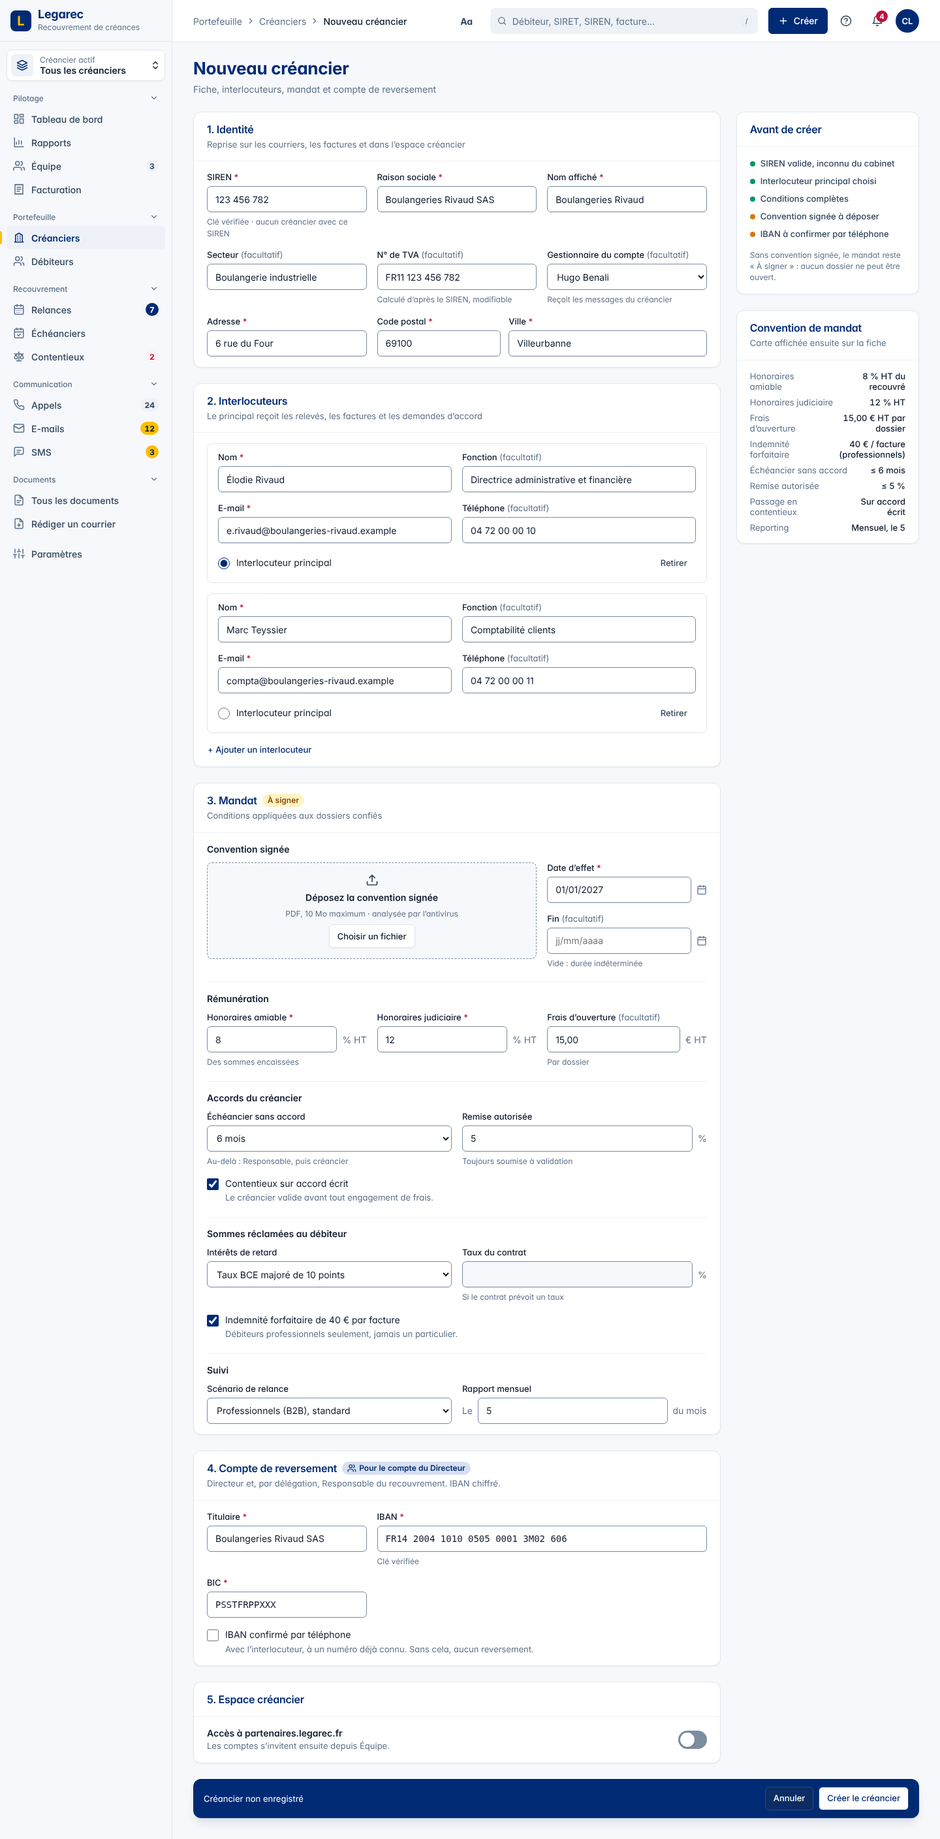
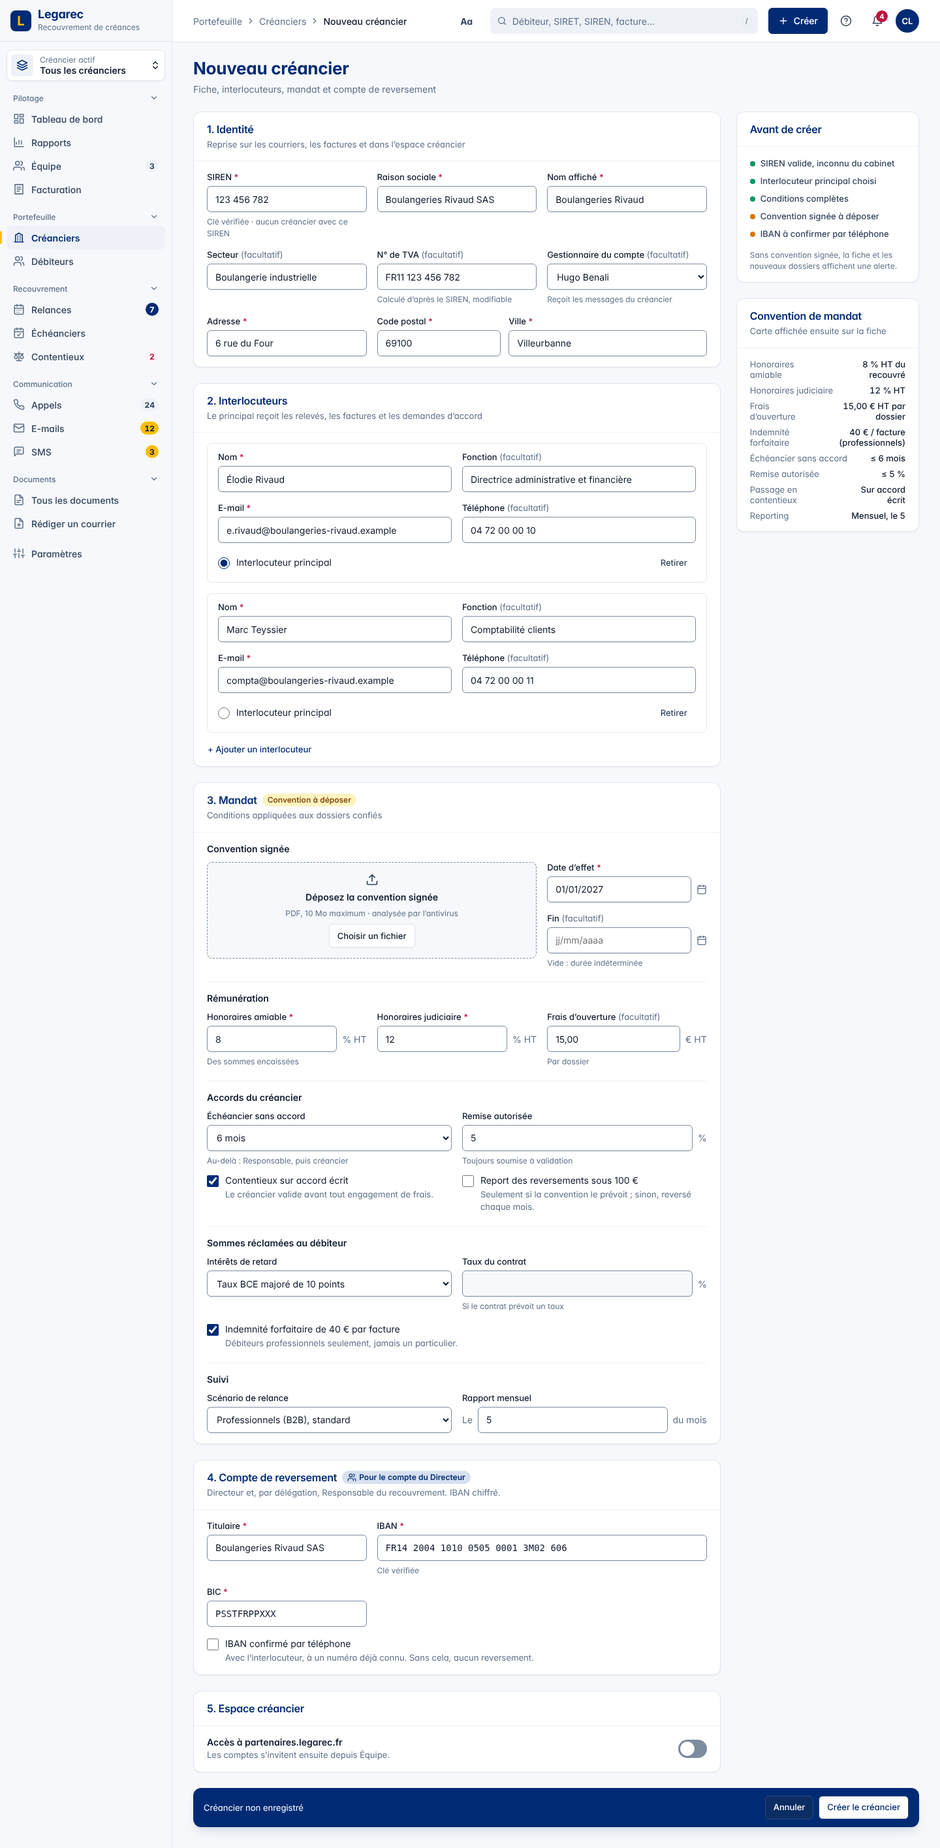
docs: record the firm's answers on the four proposed screens
The four screens are approved. Missing signed agreement becomes a plain
warning, only the Director and the collection manager open a case by hand,
small remittances are deferred only when the agreement says so, and a credit
note can be sent from the collaborator's mailbox.

diff --git a/docs/propositions/debiteur-et-factures.html b/docs/propositions/debiteur-et-factures.html
@@ -64,7 +64,7 @@
       <symbol id="i-x-circle" viewBox="0 0 24 24"><path d="M12 22a10 10 0 1 0 0-20 10 10 0 0 0 0 20zM15 9l-6 6M9 9l6 6"></path></symbol>
     </svg>
     <section class="note" aria-label="Proposition">
-      <p><strong>Proposition 2 sur 4 · Débiteur et factures</strong> · à valider par le cabinet (question 69). Données fictives.</p>
+      <p><strong>Proposition 2 sur 4 · Débiteur et factures</strong> · validée par le cabinet le 25/11/2026 (question 69). Données fictives.</p>
       <nav aria-label="Propositions">
         <a href="#ecran">Écran</a><a href="#etats">États</a><a href="creancier-et-mandat.html">1. Créancier et mandat</a
         ><a href="debiteur-et-factures.html" aria-current="page">2. Débiteur et factures</a
@@ -707,9 +707,9 @@
         </header>
         <div class="states">
           <figure class="state">
-            <figcaption><strong>Qui ouvre un dossier</strong><span>à trancher</span></figcaption>
+            <figcaption><strong>Qui ouvre un dossier</strong></figcaption>
             <div class="carte">
-              <div class="tableau" role="group" tabindex="0" aria-label="Accès à Débiteur et factures" data-min="sm">
+              <div class="tableau" role="group" tabindex="0" aria-label="Accès à Débiteur et factures">
                 <table>
                   <caption class="hidden">
                     Accès à Débiteur et factures
@@ -734,8 +734,8 @@
                     </tr>
                     <tr>
                       <td>Gestionnaire</td>
-                      <td>Ceux de ses dossiers</td>
-                      <td>À lui-même</td>
+                      <td>Non</td>
+                      <td>Reçoit les dossiers attribués</td>
                     </tr>
                     <tr>
                       <td>Développeur</td>
@@ -748,7 +748,7 @@
             </div>
           </figure>
           <figure class="state">
-            <figcaption><strong>Points d’entrée</strong><span>boutons existants</span></figcaption>
+            <figcaption><strong>Points d’entrée</strong><span>masqués pour le Gestionnaire</span></figcaption>
             <section class="carte">
               <div class="body">
                 <ul class="checks">
@@ -943,20 +943,13 @@
                 <strong>Lecture seule</strong
                 ><span
                   >Ce dossier est suivi par Hugo Benali. Vous pouvez le consulter ; votre consultation est notée dans l’historique. L’ajout de factures revient
-                  à son gestionnaire ou au Responsable.</span
+                  au Responsable du recouvrement.</span
                 ><button type="button" class="bouton" data-variant="secondary" data-size="sm"><span>Voir le dossier</span></button>
               </div>
             </div>
           </figure>
           <figure class="state">
-            <figcaption><strong>Dossier existant hors de portée</strong><span>Gestionnaire : message neutre</span></figcaption>
-            <div class="alerte" data-tone="warning" role="note">
-              <svg class="icone" aria-hidden="true" data-size="lg"><use href="#i-alert"></use></svg>
-              <div><strong>Dossier impossible à ouvrir ici</strong><span>Voyez avec le Responsable du recouvrement. Votre saisie reste à l’écran.</span></div>
-            </div>
-          </figure>
-          <figure class="state">
-            <figcaption><strong>Même débiteur, autre créancier</strong><span>Directeur et Responsable seulement</span></figcaption>
+            <figcaption><strong>Même débiteur, autre créancier</strong></figcaption>
             <div class="alerte" data-tone="info" role="note">
               <svg class="icone" aria-hidden="true" data-size="lg"><use href="#i-info"></use></svg>
               <div>
@@ -973,8 +966,17 @@
             <div class="alerte" data-tone="danger" role="note">
               <svg class="icone" aria-hidden="true" data-size="lg"><use href="#i-x-circle"></use></svg>
               <div>
-                <strong>Aucun mandat actif</strong
-                ><span>Le mandat de Boulangeries Rivaud est « À signer ». Déposez la convention signée avant d’ouvrir un dossier.</span
+                <strong>Aucun mandat actif</strong><span>Le mandat de Boulangeries Rivaud prend effet le 01/01/2027. Aucun dossier ne s’ouvre avant.</span
+                ><button type="button" class="bouton" data-variant="secondary" data-size="sm"><span>Voir le créancier</span></button>
+              </div>
+            </div>
+          </figure>
+          <figure class="state">
+            <figcaption><strong>Convention à déposer</strong><span>simple alerte, le dossier s’ouvre</span></figcaption>
+            <div class="alerte" data-tone="warning" role="note">
+              <svg class="icone" aria-hidden="true" data-size="lg"><use href="#i-alert"></use></svg>
+              <div>
+                <strong>Convention signée à déposer</strong><span>Le mandat est actif, mais sa convention signée manque sur la fiche du créancier.</span
                 ><button type="button" class="bouton" data-variant="secondary" data-size="sm"><span>Voir le créancier</span></button>
               </div>
             </div>
@@ -1034,7 +1036,7 @@
             </div>
           </figure>
           <figure class="state">
-            <figcaption><strong>Facture non échue</strong><span>à trancher</span></figcaption>
+            <figcaption><strong>Facture non échue</strong></figcaption>
             <div class="alerte" data-tone="info" role="note">
               <svg class="icone" aria-hidden="true" data-size="lg"><use href="#i-info"></use></svg>
               <div><span>F‑2026‑1190 est due le 10/12/2026 : acceptée et signalée, sans intérêts ni indemnité avant cette date.</span></div>
@@ -1052,13 +1054,14 @@
             </div>
           </figure>
           <figure class="state">
-            <figcaption><strong>Vide</strong><span>gestionnaire sans dossier</span></figcaption>
+            <figcaption><strong>Vide</strong><span>aucun créancier</span></figcaption>
             <div class="carte">
               <div class="etat">
                 <span class="mark" data-kind="empty"
                   ><svg class="icone" aria-hidden="true" data-size="xl"><use href="#i-box"></use></svg></span
-                ><strong>Aucun créancier accessible</strong>
-                <p>Vos créanciers apparaissent dès qu’un dossier vous est attribué.</p>
+                ><strong>Aucun créancier</strong>
+                <p>Ajoutez un créancier pour lui confier des dossiers.</p>
+                <button type="button" class="bouton" data-variant="secondary"><span>+ Nouveau créancier</span></button>
               </div>
             </div>
           </figure>
@@ -1073,7 +1076,7 @@
             </div>
           </figure>
           <figure class="state">
-            <figcaption><strong>Accès refusé</strong><span>Développeur</span></figcaption>
+            <figcaption><strong>Accès refusé</strong><span>Gestionnaire, Développeur</span></figcaption>
             <div class="carte">
               <div class="etat">
                 <span class="mark" data-kind="error"

diff --git a/docs/propositions/creancier-et-mandat.html b/docs/propositions/creancier-et-mandat.html
@@ -64,7 +64,7 @@
       </symbol>
     </svg>
     <section class="note" aria-label="Proposition">
-      <p><strong>Proposition 1 sur 4 · Créancier et mandat</strong> · à valider par le cabinet (question 69). Données fictives.</p>
+      <p><strong>Proposition 1 sur 4 · Créancier et mandat</strong> · validée par le cabinet le 25/11/2026 (question 69). Données fictives.</p>
       <nav aria-label="Propositions">
         <a href="#ecran">Écran</a><a href="#etats">États</a><a href="creancier-et-mandat.html" aria-current="page">1. Créancier et mandat</a
         ><a href="debiteur-et-factures.html">2. Débiteur et factures</a><a href="validation-des-reversements.html">3. Validation des reversements</a
@@ -339,7 +339,7 @@
                   <div>
                     <div class="heading">
                       <h2>3. Mandat</h2>
-                      <span class="badge" data-tone="warning">À signer</span>
+                      <span class="badge" data-tone="warning">Convention à déposer</span>
                     </div>
                     <p>Conditions appliquées aux dossiers confiés</p>
                   </div>
@@ -440,13 +440,17 @@
                         </div>
                         <span class="help" id="f25-h">Toujours soumise à validation</span>
                       </div>
-                      <div data-span="2">
-                        <label class="case"
-                          ><input type="checkbox" checked /><span
-                            ><span>Contentieux sur accord écrit</span><span>Le créancier valide avant tout engagement de frais.</span></span
-                          ></label
-                        >
-                      </div>
+                    </div>
+                    <div class="form">
+                      <label class="case"
+                        ><input type="checkbox" checked /><span
+                          ><span>Contentieux sur accord écrit</span><span>Le créancier valide avant tout engagement de frais.</span></span
+                        ></label
+                      ><label class="case"
+                        ><input type="checkbox" /><span
+                          ><span>Report des reversements sous 100 €</span><span>Seulement si la convention le prévoit ; sinon, reversé chaque mois.</span></span
+                        ></label
+                      >
                     </div>
                   </fieldset>
                   <fieldset class="group">
@@ -583,7 +587,7 @@
                       <li><span class="statut" data-tone="warning">Convention signée à déposer</span></li>
                       <li><span class="statut" data-tone="warning">IBAN à confirmer par téléphone</span></li>
                     </ul>
-                    <p class="hint">Sans convention signée, le mandat reste « À signer » : aucun dossier ne peut être ouvert.</p>
+                    <p class="hint">Sans convention signée, la fiche et les nouveaux dossiers affichent une alerte.</p>
                   </div>
                 </div>
               </section>
@@ -653,7 +657,7 @@
           <figure class="state">
             <figcaption><strong>Qui y accède</strong></figcaption>
             <div class="carte">
-              <div class="tableau" role="group" tabindex="0" aria-label="Accès à Créancier et mandat" data-min="sm">
+              <div class="tableau" role="group" tabindex="0" aria-label="Accès à Créancier et mandat">
                 <table>
                   <caption class="hidden">
                     Accès à Créancier et mandat
@@ -692,14 +696,14 @@
             </div>
           </figure>
           <figure class="state">
-            <figcaption><strong>Points d’entrée</strong><span>boutons existants</span></figcaption>
+            <figcaption><strong>Points d’entrée</strong></figcaption>
             <section class="carte">
               <div class="body">
                 <ul class="checks">
                   <li><span class="statut" data-tone="marine">Créanciers › + Nouveau créancier (N)</span></li>
                   <li><span class="statut" data-tone="marine">Barre du haut › Créer › Créancier</span></li>
                   <li><span class="statut" data-tone="marine">Créancier actif › Ajouter ou gérer les créanciers</span></li>
-                  <li><span class="statut" data-tone="warning">Fiche créancier › Convention de mandat › Modifier (dans la maquette, à remettre)</span></li>
+                  <li><span class="statut" data-tone="marine">Fiche créancier › Convention de mandat › Modifier (bouton de la maquette, remis)</span></li>
                 </ul>
               </div>
             </section>
@@ -714,7 +718,7 @@
                   ></span>
                   <div>
                     <h3>Créer ce créancier ?</h3>
-                    <p>La fiche est créée avec un mandat « À signer ». Aucun dossier ne peut être ouvert avant le dépôt de la convention signée.</p>
+                    <p>Le mandat prend effet à sa date. La convention signée reste à déposer : une alerte le rappelle sur la fiche et les nouveaux dossiers.</p>
                   </div>
                 </div>
                 <dl>
@@ -737,6 +741,10 @@
                   <div>
                     <dt>Échéancier</dt>
                     <dd>Sans accord jusqu’à 6 mois</dd>
+                  </div>
+                  <div>
+                    <dt>Convention</dt>
+                    <dd>À déposer</dd>
                   </div>
                   <div>
                     <dt>Compte</dt>
@@ -1153,6 +1161,16 @@
                 </dl>
               </div>
             </section>
+          </figure>
+          <figure class="state">
+            <figcaption><strong>Convention à déposer</strong><span>simple alerte, sur la fiche et les nouveaux dossiers</span></figcaption>
+            <div class="alerte" data-tone="warning" role="note">
+              <svg class="icone" aria-hidden="true" data-size="lg"><use href="#i-alert"></use></svg>
+              <div>
+                <strong>Convention signée à déposer</strong><span>Le mandat de Boulangeries Rivaud est actif depuis le 01/01/2027 sans convention signée.</span
+                ><button type="button" class="bouton" data-variant="secondary" data-size="sm"><span>Déposer la convention</span></button>
+              </div>
+            </div>
           </figure>
           <figure class="state">
             <figcaption><strong>Modification réversible</strong><span>coordonnées, secteur, gestionnaire du compte</span></figcaption>

diff --git a/docs/propositions/avoir.html b/docs/propositions/avoir.html
@@ -59,7 +59,7 @@
       <symbol id="i-x-circle" viewBox="0 0 24 24"><path d="M12 22a10 10 0 1 0 0-20 10 10 0 0 0 0 20zM15 9l-6 6M9 9l6 6"></path></symbol>
     </svg>
     <section class="note" aria-label="Proposition">
-      <p><strong>Proposition 4 sur 4 · Avoir</strong> · à valider par le cabinet (question 69). Données fictives.</p>
+      <p><strong>Proposition 4 sur 4 · Avoir</strong> · validée par le cabinet le 25/11/2026 (question 69). Données fictives.</p>
       <nav aria-label="Propositions">
         <a href="#ecran">Écran</a><a href="#etats">États</a><a href="creancier-et-mandat.html">1. Créancier et mandat</a
         ><a href="debiteur-et-factures.html">2. Débiteur et factures</a><a href="validation-des-reversements.html">3. Validation des reversements</a
@@ -574,9 +574,9 @@ Chèque revenu impayé après reversement (dossier LGR‑2026‑00188).</textare
               <div class="body">
                 <ul class="checks">
                   <li><span class="statut" data-tone="marine">Facturation › + Créer depuis un modèle › Avoir (type ajouté en dernier)</span></li>
-                  <li><span class="statut" data-tone="warning">Ligne d’une facture émise › Avoir (bouton à ajouter)</span></li>
+                  <li><span class="statut" data-tone="marine">Ligne d’une facture émise › Avoir (nouveau bouton)</span></li>
                   <li><span class="statut" data-tone="marine">Reversements › Préparer l’avoir</span></li>
-                  <li><span class="statut" data-tone="warning">Onglet « Avoirs » ajouté après « Contrats »</span></li>
+                  <li><span class="statut" data-tone="marine">Onglet « Avoirs » après « Contrats » (nouveau)</span></li>
                 </ul>
               </div>
             </section>
@@ -766,7 +766,12 @@ Chèque revenu impayé après reversement (dossier LGR‑2026‑00188).</textare
                       <td data-align="right" data-nowrap><span class="strong">250,56 €</span></td>
                       <td><span class="badge" data-tone="marine">Au reversement du 15/12</span></td>
                       <td>
-                        <button type="button" class="bouton" data-variant="secondary" data-size="sm" aria-label="PDF AV-2026-0002"><span>PDF</span></button>
+                        <span class="inline" data-nowrap
+                          ><button type="button" class="bouton" data-variant="secondary" data-size="sm" aria-label="PDF AV-2026-0002"><span>PDF</span></button
+                          ><button type="button" class="bouton" data-variant="secondary" data-size="sm" aria-label="Envoyer AV-2026-0002 au créancier">
+                            <span>Envoyer</span>
+                          </button></span
+                        >
                       </td>
                     </tr>
                     <tr>
@@ -781,11 +786,54 @@ Chèque revenu impayé après reversement (dossier LGR‑2026‑00188).</textare
                       <td data-align="right" data-nowrap><span class="strong">720,00 €</span></td>
                       <td><span class="badge" data-tone="success">Remboursé</span></td>
                       <td>
-                        <button type="button" class="bouton" data-variant="secondary" data-size="sm" aria-label="PDF AV-2026-0001"><span>PDF</span></button>
+                        <span class="inline" data-nowrap
+                          ><button type="button" class="bouton" data-variant="secondary" data-size="sm" aria-label="PDF AV-2026-0001"><span>PDF</span></button
+                          ><button type="button" class="bouton" data-variant="secondary" data-size="sm" aria-label="Envoyer AV-2026-0001 au créancier">
+                            <span>Envoyer</span>
+                          </button></span
+                        >
                       </td>
                     </tr>
                   </tbody>
                 </table>
+              </div>
+            </div>
+          </figure>
+          <figure class="state">
+            <figcaption><strong>Confirmer l’envoi</strong><span>depuis la boîte du collaborateur</span></figcaption>
+            <div class="veil">
+              <div class="dialog" role="group" aria-label="Envoyer l'avoir AV-2026-0002 au créancier ?">
+                <div class="head">
+                  <span class="mark" data-tone="primary"
+                    ><svg class="icone" aria-hidden="true" data-size="xl"><use href="#i-info"></use></svg
+                  ></span>
+                  <div>
+                    <h3>Envoyer l’avoir AV‑2026‑0002 au créancier ?</h3>
+                    <p>L’avoir est déjà dans l’espace créancier. Le message part de votre boîte, avec le PDF et votre signature.</p>
+                  </div>
+                </div>
+                <dl>
+                  <div>
+                    <dt>De</dt>
+                    <dd>cl@legarec.fr</dd>
+                  </div>
+                  <div>
+                    <dt>À</dt>
+                    <dd>Claire Besson, c.besson@materiauxdelta.example</dd>
+                  </div>
+                  <div>
+                    <dt>Objet</dt>
+                    <dd>Avoir AV‑2026‑0002</dd>
+                  </div>
+                  <div>
+                    <dt>Pièce jointe</dt>
+                    <dd>AV‑2026‑0002.pdf</dd>
+                  </div>
+                </dl>
+                <div class="foot">
+                  <span class="hint">Échap pour annuler</span><button type="button" class="bouton" data-variant="secondary"><span>Annuler</span></button
+                  ><button type="button" class="bouton"><span>Envoyer le message</span></button>
+                </div>
               </div>
             </div>
           </figure>

diff --git a/docs/propositions/validation-des-reversements.html b/docs/propositions/validation-des-reversements.html
@@ -65,7 +65,7 @@
       <symbol id="i-x-circle" viewBox="0 0 24 24"><path d="M12 22a10 10 0 1 0 0-20 10 10 0 0 0 0 20zM15 9l-6 6M9 9l6 6"></path></symbol>
     </svg>
     <section class="note" aria-label="Proposition">
-      <p><strong>Proposition 3 sur 4 · Validation des reversements</strong> · à valider par le cabinet (question 69). Données fictives.</p>
+      <p><strong>Proposition 3 sur 4 · Validation des reversements</strong> · validée par le cabinet le 25/11/2026 (question 69). Données fictives.</p>
       <nav aria-label="Propositions">
         <a href="#ecran">Écran</a><a href="#etats">États</a><a href="creancier-et-mandat.html">1. Créancier et mandat</a
         ><a href="debiteur-et-factures.html">2. Débiteur et factures</a
@@ -480,7 +480,10 @@
                 </table>
               </div>
             </div>
-            <footer>Seuls comptent les chèques encaissés et les virements rapprochés. Crédit Horizon : 94,00 € reportés au lot du 15/01/2027.</footer>
+            <footer>
+              Seuls comptent les chèques encaissés et les virements rapprochés. Crédit Horizon : 94,00 € reportés au lot du 15/01/2027, comme le prévoit sa
+              convention.
+            </footer>
           </section>
         </main>
       </div>
@@ -540,7 +543,7 @@
                   <li><span class="statut" data-tone="marine">Tableau de bord › Priorités du jour › Ouvrir</span></li>
                   <li><span class="statut" data-tone="marine">Notifications › Voir</span></li>
                   <li><span class="statut" data-tone="marine">Fiche créancier › Reversements</span></li>
-                  <li><span class="statut" data-tone="warning">Facturation › Reversements (bouton à ajouter, menu inchangé)</span></li>
+                  <li><span class="statut" data-tone="marine">Facturation › Reversements (nouveau bouton, menu inchangé)</span></li>
                 </ul>
               </div>
             </section>
@@ -882,11 +885,12 @@
             </div>
           </figure>
           <figure class="state">
-            <figcaption><strong>Frais refacturés échus</strong><span>à trancher</span></figcaption>
+            <figcaption><strong>Frais refacturés échus</strong><span>jamais déduits</span></figcaption>
             <div class="alerte" data-tone="neutral" role="note">
               <svg class="icone" aria-hidden="true" data-size="lg"><use href="#i-info"></use></svg>
               <div>
-                <strong>TransAlp Leasing : FA‑2026‑0114 non réglée</strong><span>1 284,00 € TTC de frais de procédure, échus. Non déduits du reversement.</span>
+                <strong>TransAlp Leasing : FA‑2026‑0114 non réglée</strong
+                ><span>1 284,00 € TTC de frais de procédure, échus. Payés à part par le créancier, sans effet sur le lot.</span>
               </div>
             </div>
           </figure>
